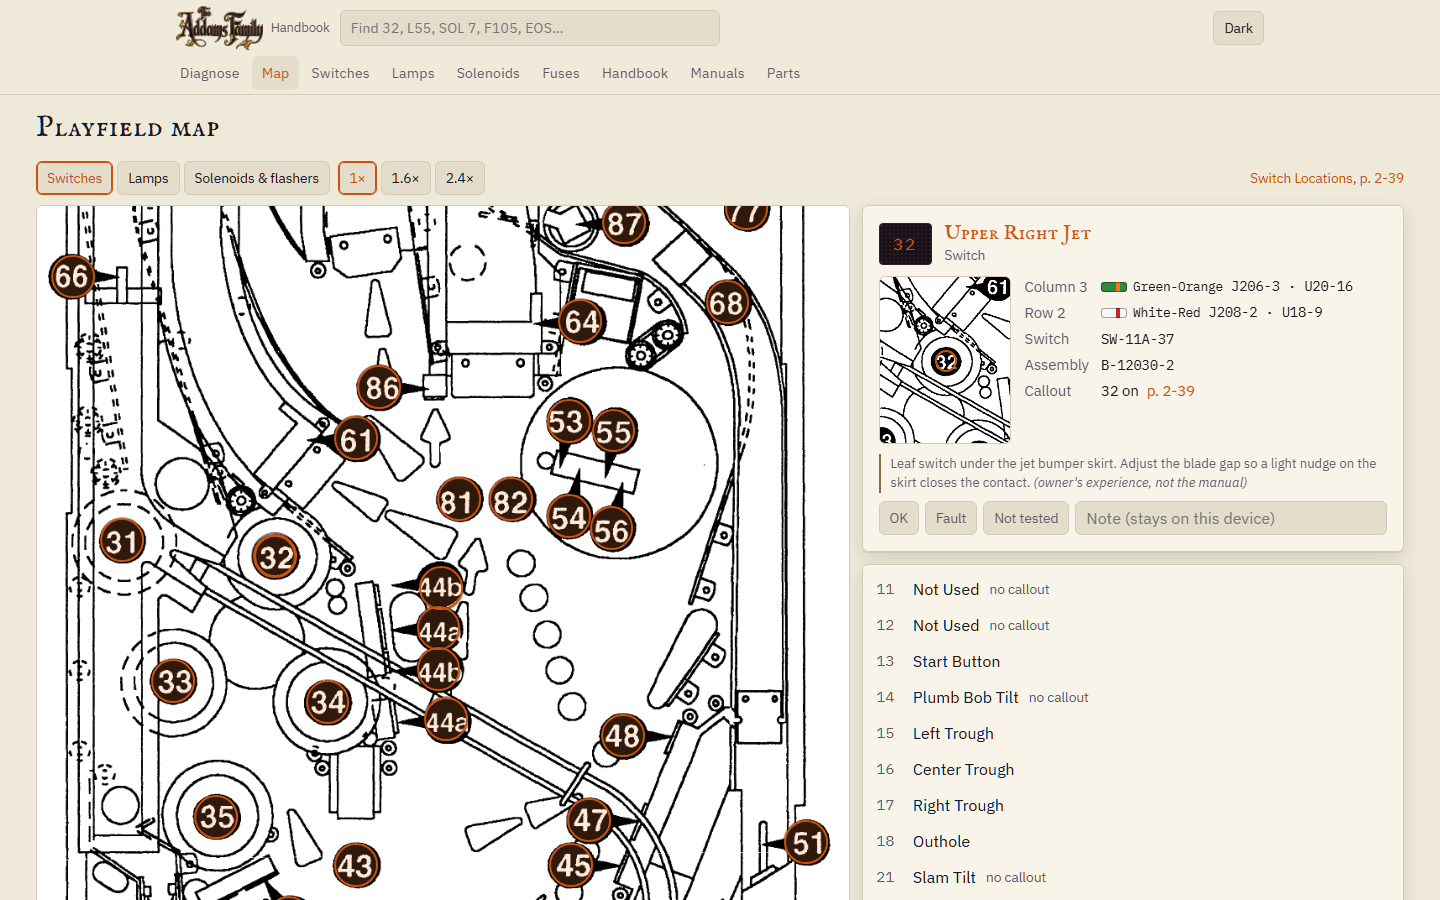
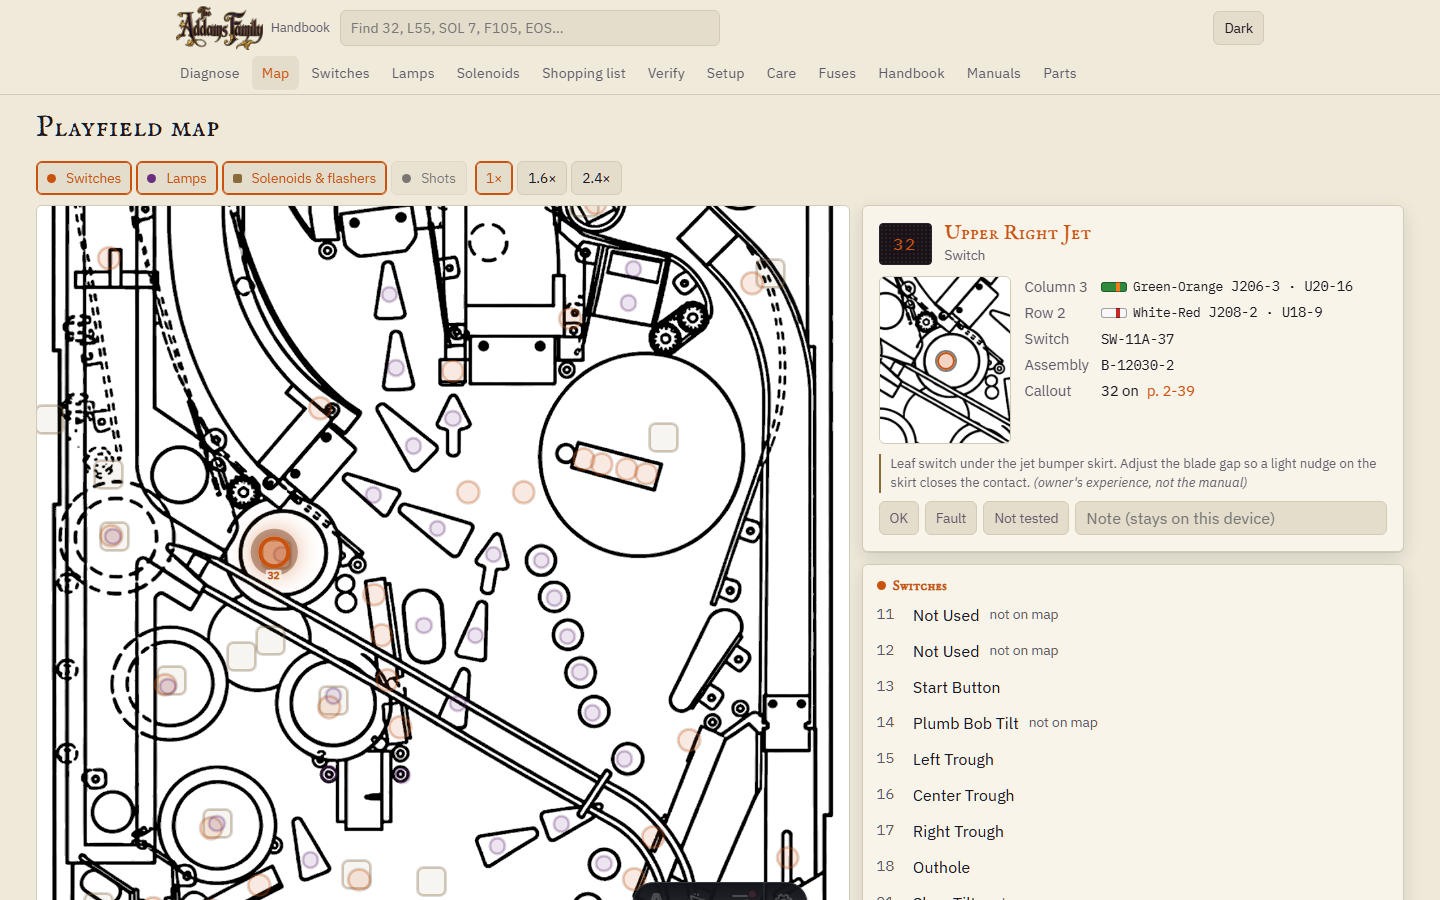
Update playfield map and appendices integration; refine calibration details and enhance documentation

diff --git a/src/components/PlayfieldMap.svelte b/src/components/PlayfieldMap.svelte
@@ -382,9 +382,9 @@
           <h2>Playfield</h2>
           <p class="muted">Tap a marker on the drawing, or pick from the list.</p>
           <p class="prov">
-            Positions are remapped from the manual's location maps (pages 2-39 to 2-41) and shot
-            maps (PDF pages 9–10). A marker that still sits beside its part is where the printed
-            callout was.
+            Positions were remapped from the manual's location maps (pages 2-39 to 2-41) and shot
+            maps (PDF pages 9–10), then placed by hand over the original scans. Off-playfield parts
+            (Start button, THING and credit lamps) sit on the nearest edge.
           </p>
         </div>
       {/if}

diff --git a/README.md b/README.md
@@ -24,16 +24,16 @@ the wiring, the location on the playfield, the manual page and a note about what
 usually goes wrong. It is a static Astro site with Svelte islands, installable
 as a PWA and fully usable offline under the playfield glass.
 
-|      Diagnose       | Playfield map | Switch matrix |
-| :-----------------: | :-----------: | :-----------: |
-|   ![Diagnose][s1]   |  ![Map][s2]   | ![Matrix][s3] |
-| paste `32 68 F1 F3` | switch layer  | 8×8 + tables  |
+|      Diagnose       |       Playfield map       | Switch matrix |
+| :-----------------: | :-----------------------: | :-----------: |
+|   ![Diagnose][s1]   |        ![Map][s2]         | ![Matrix][s3] |
+| paste `32 68 F1 F3` | switch layer, one drawing | 8×8 + tables  |
 
 [s1]: docs/readme/phone-diagnose.png
 [s2]: docs/readme/phone-map.png
 [s3]: docs/readme/phone-switches.png
 
-![Desktop light theme: playfield map with the component card for switch 32 Upper Right Jet](docs/readme/desktop-map.png)
+![Desktop light theme: playfield map on the clean drawing, all three component layers on, with the card for switch 32 Upper Right Jet](docs/readme/desktop-map.png)
 
 _Dark on the phone in the workshop, light on the desk. The toggle lives in the
 header._
@@ -41,14 +41,19 @@ header._
 ## Features
 
 - **Diagnose.** Paste a Test Report line, a whole report or a display message.
-  One card per component with wiring chips, mini-map, callout link, status +
-  note, and a shared-cause check across switch and lamp columns and rows,
+  One card per component with wiring chips, a mini-map on the playfield
+  drawing, callout link, status + note, and a shared-cause check across switch and lamp columns and rows,
   connectors and EOS mechanics.
-- **Playfield map.** One clean drawing with switch, lamp, solenoid and shot
-  layers, any combination, at three zoom levels; the selected part pulses and the
-  rest dims. `?calib=1` lets you drag markers over a frame-aligned overlay of the original scan and copy the JSON.
-  Markers take the colour of their status. `?layer&id` in the URL, so a link
-  opens the same view.
+- **Playfield map.** One clean line drawing of the playfield with switch,
+  lamp, solenoid and shot layers (the manual's lettered shots A–S), any
+  combination, at three zoom levels. The selected part pulses and the rest
+  dims; markers take the colour of their status. Positions were remapped from
+  the manual's three location maps and two shot maps, then placed by hand by
+  the owner against the original scans. `?layer=sw,shot&id=K` in the URL, so a
+  link opens the same view, and the rules section of the handbook embeds the
+  map with the shots on. `?calib=1` is the calibration mode: drag or arrow-key
+  markers over a frame-aligned overlay of the original scan and copy the JSON
+  into `src/data/positions.json`.
 - **Matrices & tables.** 8×8 switch and lamp matrices with keyboard navigation.
   Dedicated tables for J205, Fliptronics J806, solenoids, flashers, flipper
   coils, GI, fuses by board, LEDs and the jumper pointer.
@@ -82,8 +87,9 @@ header._
   component page as "Service notes".
 - **Device data.** Download every status as a JSON backup and read it back on
   another phone, merge or replace.
-- **Offline.** Manifest, icons, precached shell, data, maps and figures. Scans
-  are cached on first view.
+- **Offline.** Manifest, icons, precached shell, data, the playfield drawing
+  and figures. Scans (manual pages and calibration overlays) are cached on
+  first view.
 
 ## Quick start
 
@@ -136,19 +142,33 @@ Handbook pages are rendered by a custom content loader
 the source data are mapped to the English UI in
 [`src/lib/data/en.ts`](src/lib/data/en.ts).
 
+Three things are this repo's own and not synced from the kit:
+
+- [`src/data/positions.json`](src/data/positions.json): marker positions on
+  the clean drawing `public/assets/maps/playfield.png`, keyed `kind:id`
+  (`switch`, `lamp`, `coil`, `shot`), normalised 0–1. Seeded from the kit's
+  `loc` callouts and the shot-map arrow tips, then calibrated by hand in
+  `/map?calib=1`. The kit's `loc` stays untouched; the three scanned location
+  maps it refers to are kept only as calibration overlays.
+- [`src/data/shots.ts`](src/data/shots.ts): the lettered shots A–S with their
+  manual page.
+- [`src/data/overlays.json`](src/data/overlays.json): where each scan sits over
+  the drawing so its playfield frame lines up (computed once by frame detection).
+
 ## Project layout
 
 ```text
 src/
 ├── components/   Svelte islands: Diagnose, PlayfieldMap, Matrix, PageViewer, …
-├── lib/          codes, shared cause, handbook loader, data mapping, status
+├── data/         kit/ (synced), positions.json, shots.ts, overlays.json, owner data
+├── lib/          codes, shared cause, handbook loader, data mapping, positions, status
 ├── pages/        diagnose (index), map, matrices, parts, handbook, manual
 ├── styles/       tokens.css (palette, type, spacing), base.css
 └── content/      handbook pages (synced from the kit)
 public/           data, assets, fonts, icons (synced or generated), brand/logo.webp
 scripts/          sync-kit, copy-fonts, icons, thumbnails
 tests/            vitest + Playwright e2e
-kit-docs/         build prompt, machine notes, known issues (synced from the kit)
+kit-docs/         build prompt, data schema, machine notes, knowledge bank, known issues
 ```
 
 ## Design
@@ -182,6 +202,10 @@ Recorded from the owner (§10 of the build prompt):
   adapter.
 - The project lives in the sibling folder `../valvet`; the kit is read-only
   source.
+- One clean playfield drawing with combinable layers instead of the prompt's
+  three location diagrams with markers at the printed callouts. The manual's
+  callouts remain in the kit data; the app's positions were calibrated by the
+  owner on 2026-09-24.
 - Astro 7 instead of the Astro 5 the prompt mentions. `pnpm-workspace.yaml` sets
   `minimumReleaseAge: 0` so current releases install.
 - Repo

diff --git a/.claude/tasks/playfield-map.md b/.claude/tasks/playfield-map.md
@@ -1,17 +1,18 @@
 # Playfield map on one clean drawing
 
-**Status 2026-09-24: implemented incl. shots layer + combinable layers + handbook embed, gauntlet green (vitest 49, smoke 20, build 0 errors, data-find 8), uncommitted. Owner calibrated all 17 shot letters against the overlay 2026-09-24 (applied to positions.json). Owner then calibrated 95 component markers in a second pass (same day). Only the off-playfield ones stay on the edge: Start button 13 (cabinet), THING lamps 81–87 (top edge) and credit lamp 88 (bottom edge).**
+**Status 2026-09-24: implemented incl. shots layer + combinable layers + handbook embed, gauntlet green (vitest 49, smoke 20, build 0 errors, data-find 8), committed as `4048f2b`. Owner calibrated all 17 shot letters against the overlay 2026-09-24 (applied to positions.json). Owner then calibrated 95 component markers in a second pass (same day). Only the off-playfield ones stay on the edge: Start button 13 (cabinet), THING lamps 81–87 (top edge) and credit lamp 88 (bottom edge).**
 
 ## What
 - `public/assets/maps/playfield.png` (1246×2702, 169 KB): the naked drawing `public/assets/figures/7696d0a6-….png` cropped to the playfield frame and upscaled 2×. Generated by scratchpad `pf1.py` (frame detection via line projections, affine remap per manual map).
 - `src/data/positions.json` `{ image:{w,h}, pos:{ "kind:id": [{x,y,l}] } }`; `src/lib/data/positions.ts` (`PLAYFIELD`, `positions`, `posKey`, `allPositions`). Kit `loc` untouched.
 - `PlayfieldMap.svelte`: four toggle layers sw/lamp/coil/shot held in a `SvelteSet` (URL `layer=sw,lamp` comma list, `all` accepted, default sw,lamp,coil; `id=` bare id resolved against the layers that are on in order, or exact `id=shot:K`), one image, markers per kind (colour + shape, status colours), selected pulses + label, others dim, labels at zoom ≥1.6 when exactly one component layer is on (shot letters are always printed in the marker); selected always labelled. `?calib=1`: drag / arrow-key markers, drafts in localStorage `taf.positions.draft`, Copy JSON → paste into positions.json. Overlay picker + opacity slider shows the original manual scan (`src/data/overlays.json`: sw/lamp/coil scans and shot pages 9/10, positioned so the scan's playfield frame lands on the drawing's frame; computed by frame detection, thresholds 0.5 for the three scans, 0.2 for the thin-lined shot pages). Default overlay follows the first layer that is on.
 - Shots: `src/data/shots.ts` (A–S, no I/O, with source PDF page 9/10); positions under `shot:<letter>` seeded by eye from the shot maps' arrow tips (frame detection failed on those thin-lined scans, threshold 0.2 would work if ever redone). Shot card in the aside links the manual page. Embedded in `src/pages/handbook/[section].astro` after page 9 (`e.data.page === 9`, `<PlayfieldMap client:visible layer="shot" />`), md transcriptions untouched. Start page has a `map?layer=shot` quick link.
-- `MiniMap.svelte` takes `pos` only; `ComponentCard` passes `positions(kind,id)`. Precache glob narrowed to `playfield.png`; the three scans stay in the kit but are unused by the app.
+- `MiniMap.svelte` takes `pos` only; `ComponentCard` passes `positions(kind,id)`. Precache glob narrowed to `playfield.png`; the three scans (`public/assets/maps/{sw,lamp,coil}.png`) are only loaded as calibration overlays, so the `assets/maps` copy step in `scripts/sync-kit.mjs` must stay.
 - Tests: `tests/unit/positions.test.ts` (PNG header = image size, one pos per callout, labels match, inside 0..1, every shot placed, no unknown keys); `tests/e2e/smoke.spec.ts` (shot layer count 17, combine sw+shot → URL `layer=sw,shot&id=K`, handbook embed in `#pg-9 .shot-map`).
 
 ## Open
 - Done 2026-09-24 (owner's "kör!"): layers combine, shots layer, embed in rules section. Possible follow-ons, not asked for: embed on handbook pages 2-39..2-41 too; more layers (GI strings, posts/rubbers from parts pages) would need new position data.
 - Shot letters A–S: calibrated by the owner 2026-09-24, done.
 - Calibration done 2026-09-24 (owner, two passes via the overlay). Edge-clamped by design: switch 13, lamps 81–88 (not on the playfield). Trough 15–18 left as remapped.
-- Consider deleting the `assets/maps/{sw,lamp,coil}.png` copy step from `scripts/sync-kit.mjs` once calibration is done.
+- Docs refreshed 2026-09-24 after the calibration (README, DATA-SCHEMA note, CHANGELOG, map intro text); uncommitted until the owner says so.
+- Loose end: the 1.25 MB naked source drawing `public/assets/figures/7696d0a6-….png` is committed under `public/` and ships unreferenced in every build; owner to decide move-to-kit-docs or delete.

diff --git a/.claude/tasks/appendix-integration.md b/.claude/tasks/appendix-integration.md
@@ -1,6 +1,6 @@
 # Appendix integration — PROPOSAL (2026-09-24, not yet approved)
 
-**Status 2026-09-24: all seven surfaces implemented, gauntlet green, committed.** Backbox inspection (observed 2026-09-24, photo) folded in, uncommitted: L-4 on M27C2001 in U6, anyPin NVRAM in U8 (no batteries), TIP102 row 9910, board date codes 9206–9218, taped J-numbers, serial '20017 …' partial. Targets: kit-docs/MACHINE.md (machine card rows, log entry, open items), kit-docs/KNOWLEDGE.md (§1, §2 rows, guides 1/2/13, §4 A.1 24 = NO, §5), setup.ts (A.1 24 item, h4 intro, `batteries` renamed to NVRAM check), care.ts (both battery items → NVRAM/U8 wording), ownerNotes p.54, app105/app106, verify.astro group 'This machine', care.spec.ts hasText 'NVRAM'. Photos NOT attached: owner to drop them at kit-docs/photos/2026-09-24-backbox/01..06.jpg. Owner reports 2026-09-24: the Thing Knocker (02) has no coil, only the A-15267 bracket and rubber pad; treated as a future upgrade (Setup upkeep item `thing-knocker`, coil 02 note, A2 table). AE-23-800 is measured on 07 Thing Kickout instead. Measured 2026-09-24: 07 Thing Kickout 4.9 Ω on the meter, leads 0.1–0.2 Ω (A1 rule 8), recorded as 4.7–4.8, recorded in A2 and COIL_OHMS as measured. Knocker harness ends in a 2-pin connector in the cabinet: violet-yellow (50 V high-power supply, manual power-circuit table PDF p. 121) plus one wire the owner will report the colour of (expected violet-red, Q80/J132-2). When it arrives: add the connector facts (colours, pin count/housing) to the `thing-knocker` why text in `src/data/setup.ts`. Owner found a 3-wire connector (black-yellow, blue-violet, orange-violet) = right flipper button stack, J805-1/-3/-6; A6 and button notes corrected from optos to leaf switches. Knocker's second wire still unreported. Owner proposed a per-coil measured-resistance feature (pending design approval). Uncommitted as of 2026-09-24: knocker note on coil 02, setup item, A2 row 4.9 Ω, CHANGELOG, this file. Remaining: the owner\'s machine measurements below; when they arrive, update the A2/A3/A6 tables and `COIL_OHMS` in `src/data/appendix.ts` (mark forum → measured).
+**Status 2026-09-24: all seven surfaces implemented, gauntlet green, committed.** Backbox inspection (observed 2026-09-24, photo) folded in, committed as `9339eba`: L-4 on M27C2001 in U6, anyPin NVRAM in U8 (no batteries), TIP102 row 9910, board date codes 9206–9218, taped J-numbers, serial '20017 …' partial. Targets: kit-docs/MACHINE.md (machine card rows, log entry, open items), kit-docs/KNOWLEDGE.md (§1, §2 rows, guides 1/2/13, §4 A.1 24 = NO, §5), setup.ts (A.1 24 item, h4 intro, `batteries` renamed to NVRAM check), care.ts (both battery items → NVRAM/U8 wording), ownerNotes p.54, app105/app106, verify.astro group 'This machine', care.spec.ts hasText 'NVRAM'. Photos NOT attached: owner to drop them at kit-docs/photos/2026-09-24-backbox/01..06.jpg. Owner reports 2026-09-24: the Thing Knocker (02) has no coil, only the A-15267 bracket and rubber pad; treated as a future upgrade (Setup upkeep item `thing-knocker`, coil 02 note, A2 table). AE-23-800 is measured on 07 Thing Kickout instead. Measured 2026-09-24: 07 Thing Kickout 4.9 Ω on the meter, leads 0.1–0.2 Ω (A1 rule 8), recorded as 4.7–4.8, recorded in A2 and COIL_OHMS as measured. Knocker harness ends in a 2-pin connector in the cabinet: violet-yellow (50 V high-power supply, manual power-circuit table PDF p. 121) plus one wire the owner will report the colour of (expected violet-red, Q80/J132-2). When it arrives: add the connector facts (colours, pin count/housing) to the `thing-knocker` why text in `src/data/setup.ts`. Owner found a 3-wire connector (black-yellow, blue-violet, orange-violet) = right flipper button stack, J805-1/-3/-6; A6 and button notes corrected from optos to leaf switches. Knocker's second wire still unreported. Owner proposed a per-coil measured-resistance feature (pending design approval). Knocker note on coil 02, setup item, A2 row 4.9 Ω and CHANGELOG committed in `28aaa52`. Remaining: the owner\'s machine measurements below; when they arrive, update the A2/A3/A6 tables and `COIL_OHMS` in `src/data/appendix.ts` (mark forum → measured).
 
 Owner intent: the owner appendices A1–A8 (`src/content/handbook/app101–108.md`)
 must be *applied* in plain text where they matter in the guides, not only

diff --git a/kit-docs/DATA-SCHEMA.md b/kit-docs/DATA-SCHEMA.md
@@ -93,6 +93,8 @@ Headers: `lCols`, `lRows` → `[wireSv, wireEn, connectorPin, transistor]`.
 
 `{ sw: {w, h, page}, lamp: {...}, coil: {...} }` — pixel size of each map image in `assets/maps/` and the PDF page it was cropped from (97, 98, 99). `loc` coordinates are normalised to these images.
 
+> **App note (valvet repo, 2026-09-24).** The app no longer draws markers on these three scans. It keeps its own `src/data/positions.json` (keys `switch:ID`, `lamp:ID`, `coil:ID`, `shot:LETTER`, normalised to the clean drawing `assets/maps/playfield.png`, 1246×2702), seeded from `loc` and the shot-map arrow tips and then calibrated by hand by the owner. `loc` and `maps` stay as the manual's record; the scans are used only as calibration overlays (`src/data/overlays.json`).
+
 ---
 
 ## `data/callouts-page-relative.json`
@@ -126,7 +128,7 @@ Array of rows from `source/Parts_List.txt` (the factory indented bill of materia
 ## `assets/`
 
 - `assets/pages/ops/N.png` (N = 1…124; page 1 is `1.jpg`, the colour cover), `assets/pages/hb/N.png` (1…12), `assets/pages/wpc/1.png` + tiles. All greyscale PNGs quantised to 4 levels (2-bit), 180 dpi for ops/hb, 150 dpi for wpc.
-- `assets/maps/{sw,lamp,coil}.png` — the three location diagrams, cropped at 250 dpi.
+- `assets/maps/{sw,lamp,coil}.png` — the three location diagrams, cropped at 250 dpi. In the app they serve as calibration overlays under `/map?calib=1`; the map itself draws on `playfield.png` (app-side, not in the kit).
 - `assets/figures/ops9.png, ops10.png` (shot maps A–S), `ops12.png` (leg leveler/pitch), `ops14.png` (coin door buttons), `ops17.png` (menu tree — superseded by the HTML menu map in `ops017.md`, kept for reference), `ops56a.png` (CPU board LEDs), `ops56b.png` (Power Driver LEDs/fuses), `ops57.png` (fuse locations, all boards).
 
 In dark theme the prototype inverts scans with `filter: invert(.9) hue-rotate(180deg)`; do the same or better.

diff --git a/CHANGELOG.md b/CHANGELOG.md
@@ -8,8 +8,11 @@
   status; the selected part pulses and the others dim, and all three kinds can
   be shown at once. Positions live in `src/data/positions.json`, seeded by
   remapping the manual's callouts and corrected by hand in the new calibration
-  mode (`/map?calib=1`: drag or arrow-key a marker, copy the JSON). The manual's
-  callout coordinates stay untouched in the kit data.
+  mode (`/map?calib=1`: drag or arrow-key a marker, copy the JSON). The owner
+  calibrated all 17 shots and 95 component markers against the overlays on
+  2026-09-24; only off-playfield parts (Start button, THING and credit lamps)
+  sit on the edge. The manual's callout coordinates stay untouched in the kit
+  data.
 - **Shots layer and combinable layers.** The manual's two shot maps (PDF pages 9
   and 10, letters A–S) become a fourth layer on the drawing, seeded from the
   arrow tips of the figures. The layer buttons now toggle, so any combination
